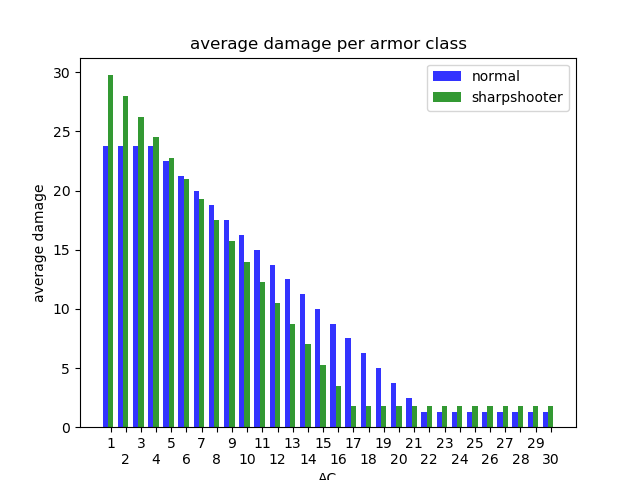
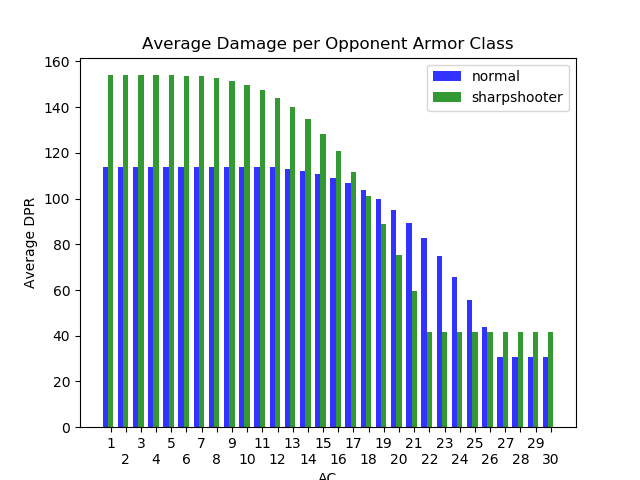
works locally

diff --git a/plot.py b/plot.py
@@ -3,69 +3,93 @@ import matplotlib.pyplot as plt
 import pandas as pd 
 import numpy as np
 
-
+# rolls is a static array, representing AC from 1 to 30. most likely
+# choices are between 8 and 24.
 def getRolls():
     rolls = ('1', '2', '3', '4', '5', '6', '7', '8', '9', '10',
              '11', '12', '13', '14', '15', '16', '17', '18', '19', '20',
              '21', '22', '23', '24', '25', '26', '27', '28', '29', '30')
     return rolls
 
+# formatDataToHit and formatDamage format the data incoming from
+# the calculation for each table
+
+# formatDataToHit takes in two arrays, and takes the toHit variable from each
+# set, and appends them to two new lists. it then appends the two new lists to a
+# list of lists
+
 def formatDataToHit(sharpshooter, non_sharpshooter):
+    # initialize lists
     to_hit = []
     ss = []
     nss = []
+    # extract data to new lists
     for i in range(30):
         value1 = sharpshooter[i]
         value2 = non_sharpshooter[i]
         ss.append(value1[1])
         nss.append(value2[1])
+    # append data to new lists
     to_hit.append(nss)
     to_hit.append(ss)
     return to_hit
 
+# formatDataDamage takes in two multilayer lists, and takes the damage
+# variable from each inner list, for each set of data. appends each value 
+# to a new list, and appends each of the new lists to another list, creating
+# a list of lists
 
 def formatDataDamage(sharpshooter, non_sharpshooter):
+    # initialize values
     damage = []
     ss = []
     nss = []
+    # extract data to correct lists
     for i in range(30):
         value1 = sharpshooter[i]
         value2 = non_sharpshooter[i]
         ss.append(value1[2])
         nss.append(value2[2])
+    # append data to new lists
     damage.append(nss)
     damage.append(ss)
     return damage
 
+# toHitHistogram takes in the data generated above, and creates the
+# corresponding bar graph
+
 def toHitHistogram(data):
+    # set initial values for each 
     rolls = getRolls()
     normal = data[0]
     sharpshooter = data[1]
     ngroups = 30
+    # create plot
     fig, ax = plt.subplots()
     y_val = np.arange(0, max(max(sharpshooter), max(normal))+1, .5)
     index = np.arange(ngroups)
     bar_width = 0.35
     opacity = 0.8
-    
+    # add values to plot
     rects1 = plt.bar(index, normal, bar_width,
                      alpha=opacity, color='b', label='normal')
 
     rects2 = plt.bar(index + bar_width, sharpshooter, bar_width,
                      alpha=opacity, color='g', label='sharpshooter')
+    # add labels to plot
     plt.xlabel('AC')
-    plt.ylabel('chance to hit')
-    plt.title('chance to hit per armor class')
+    plt.ylabel('Probability to Hit AC')
+    plt.title('Probability to Hit per Armor Class')
+    # format xticks
     plt.xticks(index + bar_width, getRolls())
     for tick in ax.xaxis.get_major_ticks()[1::2]:
         tick.set_pad(15)
     plt.legend()
-
-    # plt.show()
+    # save plot locally
     plt.savefig('images/toHit.png')
-
-
     pass
+
+# create histogram for damage. very similar to above
 
 def damageHistogram(data):
     rolls = getRolls()
@@ -85,8 +109,8 @@ def damageHistogram(data):
     rects2 = plt.bar(index + bar_width, sharpshooter, bar_width,
                      alpha=opacity, color='g', label='sharpshooter')
     plt.xlabel('AC')
-    plt.ylabel('average damage')
-    plt.title('average damage per armor class')
+    plt.ylabel('Average DPR')
+    plt.title('Average Damage per Opponent Armor Class')
     plt.xticks(index + bar_width, getRolls())
     for tick in ax.xaxis.get_major_ticks()[1::2]:
         tick.set_pad(15)
@@ -96,9 +120,13 @@ def damageHistogram(data):
     plt.savefig('images/damage.png')
     pass
 
+# main function, calls all other functions
+
 def hist(nss, ss):
+    # format data
     toHit = formatDataToHit(ss, nss)
     damage = formatDataDamage(ss, nss)
+    # create graphs
     toHitHistogram(toHit)
     damageHistogram(damage)
     pass

diff --git a/gui.py b/gui.py
@@ -22,6 +22,7 @@ import helper
 
 
 class DamageForm(Screen):
+    # declare object properties
     d4 = ObjectProperty()
     d6 = ObjectProperty()
     d8 = ObjectProperty()
@@ -39,6 +40,8 @@ class DamageForm(Screen):
     printNonSharpshooter =  ObjectProperty()
     printSharpshooter = ObjectProperty()
 
+    # runtests runs the backend calculations for the app.
+
     def run_test(self):
         # define and initialize variables from kivy object
         numDice = [self.d4, self.d6, self.d8, self.d10, self.d12]
@@ -55,16 +58,7 @@ class DamageForm(Screen):
         magicWeapon = int(float(self.magicWeapon.text))
 
         dieArray = [d4, d6, d8, d10, d12]
-        # print("non-sharpsooter:")
-        # print(app.calculations(dieArray, numAttacks, toCrit,
-        #                        proficiency, abilityModifier, toDamage,
-        #                        magicWeapon, self.advantageString.text,
-        #                        self.gwf.text, 'no'))
-        # print("with sharpshooter:")
-        # print(app.calculations(dieArray, numAttacks, toCrit,
-        #                        proficiency, abilityModifier, toDamage,
-        #                        magicWeapon, self.advantageString.text,
-        #                        self.gwf.text, 'yes'))
+        # run the calculations for sharpshooter and non-sharpshooter
         non_sharpshooter = app.calculations(dieArray, numAttacks, toCrit,
                                 proficiency, abilityModifier, toDamage,
                                 magicWeapon, self.advantageString.text,
@@ -73,45 +67,36 @@ class DamageForm(Screen):
                                 proficiency, abilityModifier, toDamage,
                                 magicWeapon, self.advantageString.text,
                                 self.gwf.text, 'yes')
-        print(non_sharpshooter)
-        print(sharpshooter)
+        # create plots saved to folder
         plot.hist(non_sharpshooter, sharpshooter)
-        # convert arrays
+        # convert arrays for printing
         non_sharpshooter = helper.convertArray(non_sharpshooter)
         sharpshooter = helper.convertArray(sharpshooter)
+        # print to gui the arrays
         self.printNonSharpshooter.text = non_sharpshooter
         self.printSharpshooter.text = sharpshooter
-
-    
     pass
 
-
-# class MainWindow(Screen):
-    
-#     # def __init__(self,**kwargs):
-#     #     super(MainWindow,self).__init__(**kwargs)
-#     #     self.image = Image(source='images/toHit.png')
-#     #     self.add_widget(self.image)
-#     #     Clock.schedule_interval(self.update_pic,.1)
-#     #     button = Button(text="damage form")
-#     #     # button.bind(on_press=callback)
-    
-#     # def callback(instance):
-#     #     self.app.root.current = "damageForm"
-
-#     # def update_pic(self,dt):
-#     #     self.image.reload()
-#     pass
+# code for display graphs screen
 
 class DisplayGraphs(Screen):
+    # direct source to images, hardcoded into app
     img_src1 = "images/toHit.png"
     img_src2 = "images/damage.png"
+    # retrieve object property
     toHitHist = ObjectProperty()
     damageHist = ObjectProperty()
+
+    # create clock to refresh 5 times per second.
+    # 5 times per second should be more than enough to refresh before
+    # a user is able to see the graph
+
     def __init__(self,**kwargs):
         super(DisplayGraphs,self).__init__(**kwargs)
         Clock.schedule_interval(self.update_graphs, .2)
     
+    # code to update the graphs
+
     def update_graphs(self, dt):
         self.toHitHist.reload()
         self.damageHist.reload()

diff --git a/helper.py b/helper.py
@@ -1,8 +1,11 @@
-# this file contains helper functions to clean up gui.py
+# this file contains helper functions to clean up gui.py 
+
+# convertArrays converts arrays to readable format, hopefully
+# can be copied into excel or a csv file
 
 def convertArray(data):
     tempData = []
-    tempData.append('(AC, Chance to Hit, Average Damage)')
+    tempData.append('Key:(AC, Chance to Hit, Average Damage)')
     for x in data:
         tempString = ','.join(map(str, x))
         tempString = ' (' + tempString + ')'
